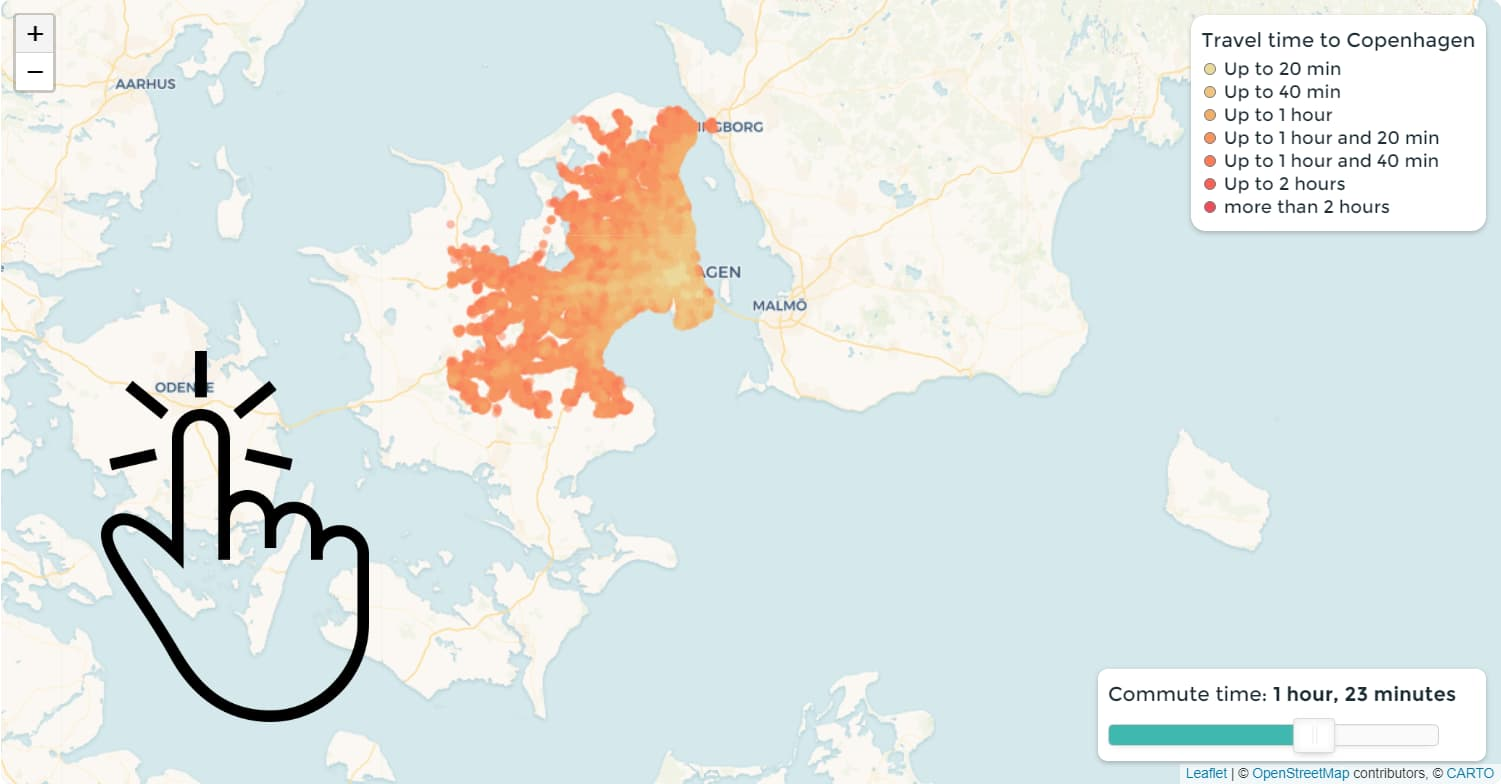
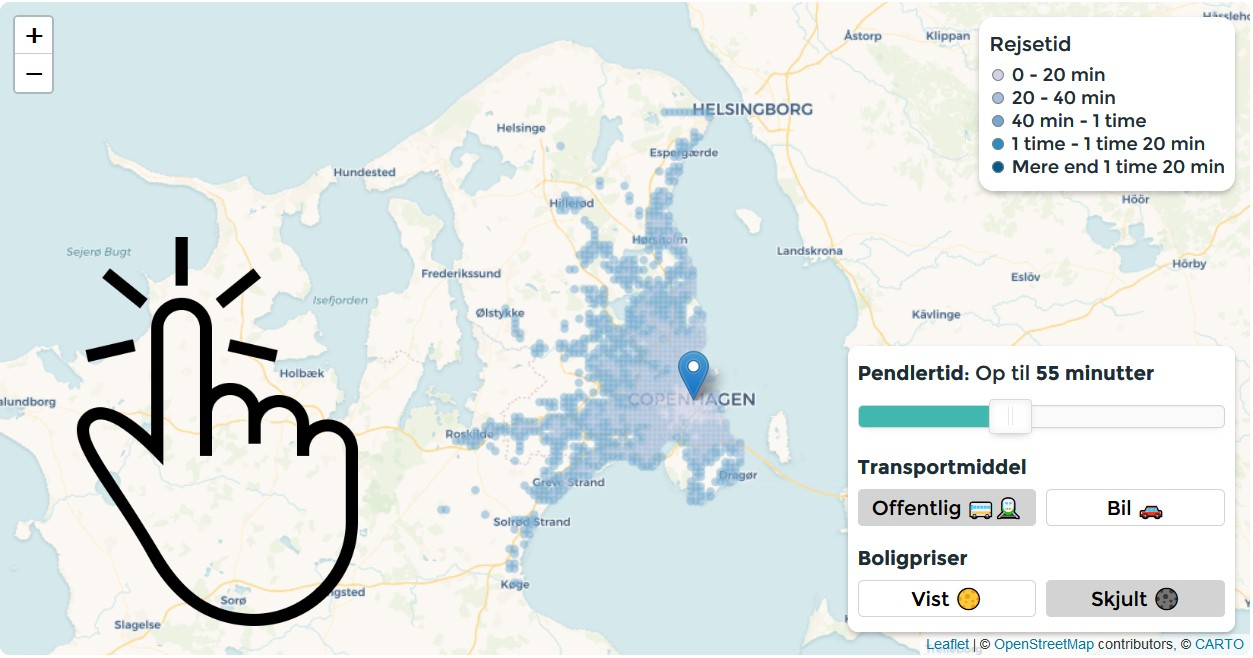
updated social images

diff --git a/src/custom-map.js b/src/custom-map.js
@@ -26,7 +26,7 @@ export default function() {
 
     let pointsMap = L.map("points-map", {
         preferCanvas: true
-    }).setView([55.7, 12.5], 9);
+    }).setView([55.91486, 12.277422], 9);
 
     let selectedSeconds;
     slider.noUiSlider.on("update", function([selectedSecondsSlider]) {
@@ -40,27 +40,6 @@ export default function() {
         markers.forEach(marker => {
             pointsMap.removeLayer(marker);
         });
-        // const filteredHyfCommutes = commutesHYF.filter(
-        //     commute =>
-        //         commute["commute-public"] < selectedSeconds &&
-        //         commute["commute-public"] > 0
-        // );
-        // filteredHyfCommutes.forEach(commute => {
-        //     const marker = L.circleMarker(
-        //         [commute.latitude, commute.longitude],
-        //         {
-        //             color: getColorHyf(commute["commute-public"]),
-        //             stroke: false,
-        //             radius: 3,
-        //             opacity: 1,
-        //             renderer: myRenderer,
-        //             fillOpacity: 1
-        //         }
-        //     ).addTo(pointsMap);
-
-        //     markers.push(marker);
-        //     // markers.push(marker);
-        // });
 
         const filteredNovoCommutes = commutesNovo.filter(
             commute =>
@@ -183,6 +162,9 @@ export default function() {
         if (duration > 0) return "#fafad0";
     }
 
+    const marker = L.marker([55.91486, 12.277422]).addTo(pointsMap);
+    marker.bindPopup("Pendlerkort udgangspunkt");
+
     const commutesNovoFiltered = commutesNovo.filter(
         commute =>
             commute["commute-public"] < selectedSeconds &&
@@ -200,24 +182,6 @@ export default function() {
 
         markers.push(marker);
     });
-
-    // const commutesHyfFiltered = commutesHyf.filter(
-    //     commute =>
-    //         commute["commute-public"] < selectedSeconds &&
-    //         commute["commute-public"] > 0
-    // );
-    // commutesHyfFiltered.forEach(commute => {
-    //     const marker = L.circleMarker([commute.latitude, commute.longitude], {
-    //         color: getColorHyf(commute["commute-public"]),
-    //         stroke: false,
-    //         radius: 3,
-    //         opacity: 1,
-    //         renderer: myRenderer,
-    //         fillOpacity: 1
-    //     }).addTo(pointsMap);
-
-    //     markers.push(marker);
-    // });
 
     const mapToggleLabel = document.querySelector(".map-active label");
     const mapToggleInput = document.querySelector(".map-active input");

diff --git a/src/pointsMap.js b/src/pointsMap.js
@@ -128,10 +128,26 @@ export default function() {
     const aalborgIntervals = odenseIntervals;
     const aarhusIntervals = [700000, 1400000, 2100000, 2800000];
 
+    L.marker([55.683332, 12.57166])
+        .addTo(pointsMap)
+        .bindPopup("København udgangspunkt");
+
+    L.marker([55.401411, 10.386118])
+        .addTo(pointsMap)
+        .bindPopup("Odense udgangspunkt");
+
+    L.marker([56.150705, 10.204396])
+        .addTo(pointsMap)
+        .bindPopup("Århus udgangspunkt");
+
+    L.marker([57.042931, 9.917307])
+        .addTo(pointsMap)
+        .bindPopup("Aalborg udgangspunkt");
+
     let currentIntervals = copenhagenIntervals;
     helper.toggleButtons([...selectCityButtons], key => {
         if (key === "copenhagen") {
-            pointsMap.flyTo([55.672554, 12.566271]);
+            pointsMap.flyTo([55.683332, 12.57166]);
             activeCity = "copenhagen";
             houseSalesStyle.setContent(
                 helper.getHouseSalesStyling(0.74, copenhagenIntervals)

diff --git a/webpack.dev.js b/webpack.dev.js
@@ -8,7 +8,7 @@ module.exports = {
     devServer: {
         // access from mobile on same network
         // host: '192.168.1.1', <-- your ip here
-        host: "192.168.1.122",
+        // host: "192.168.1.122",
         port: 8080,
         contentBase: path.join(__dirname, "dist")
     },
